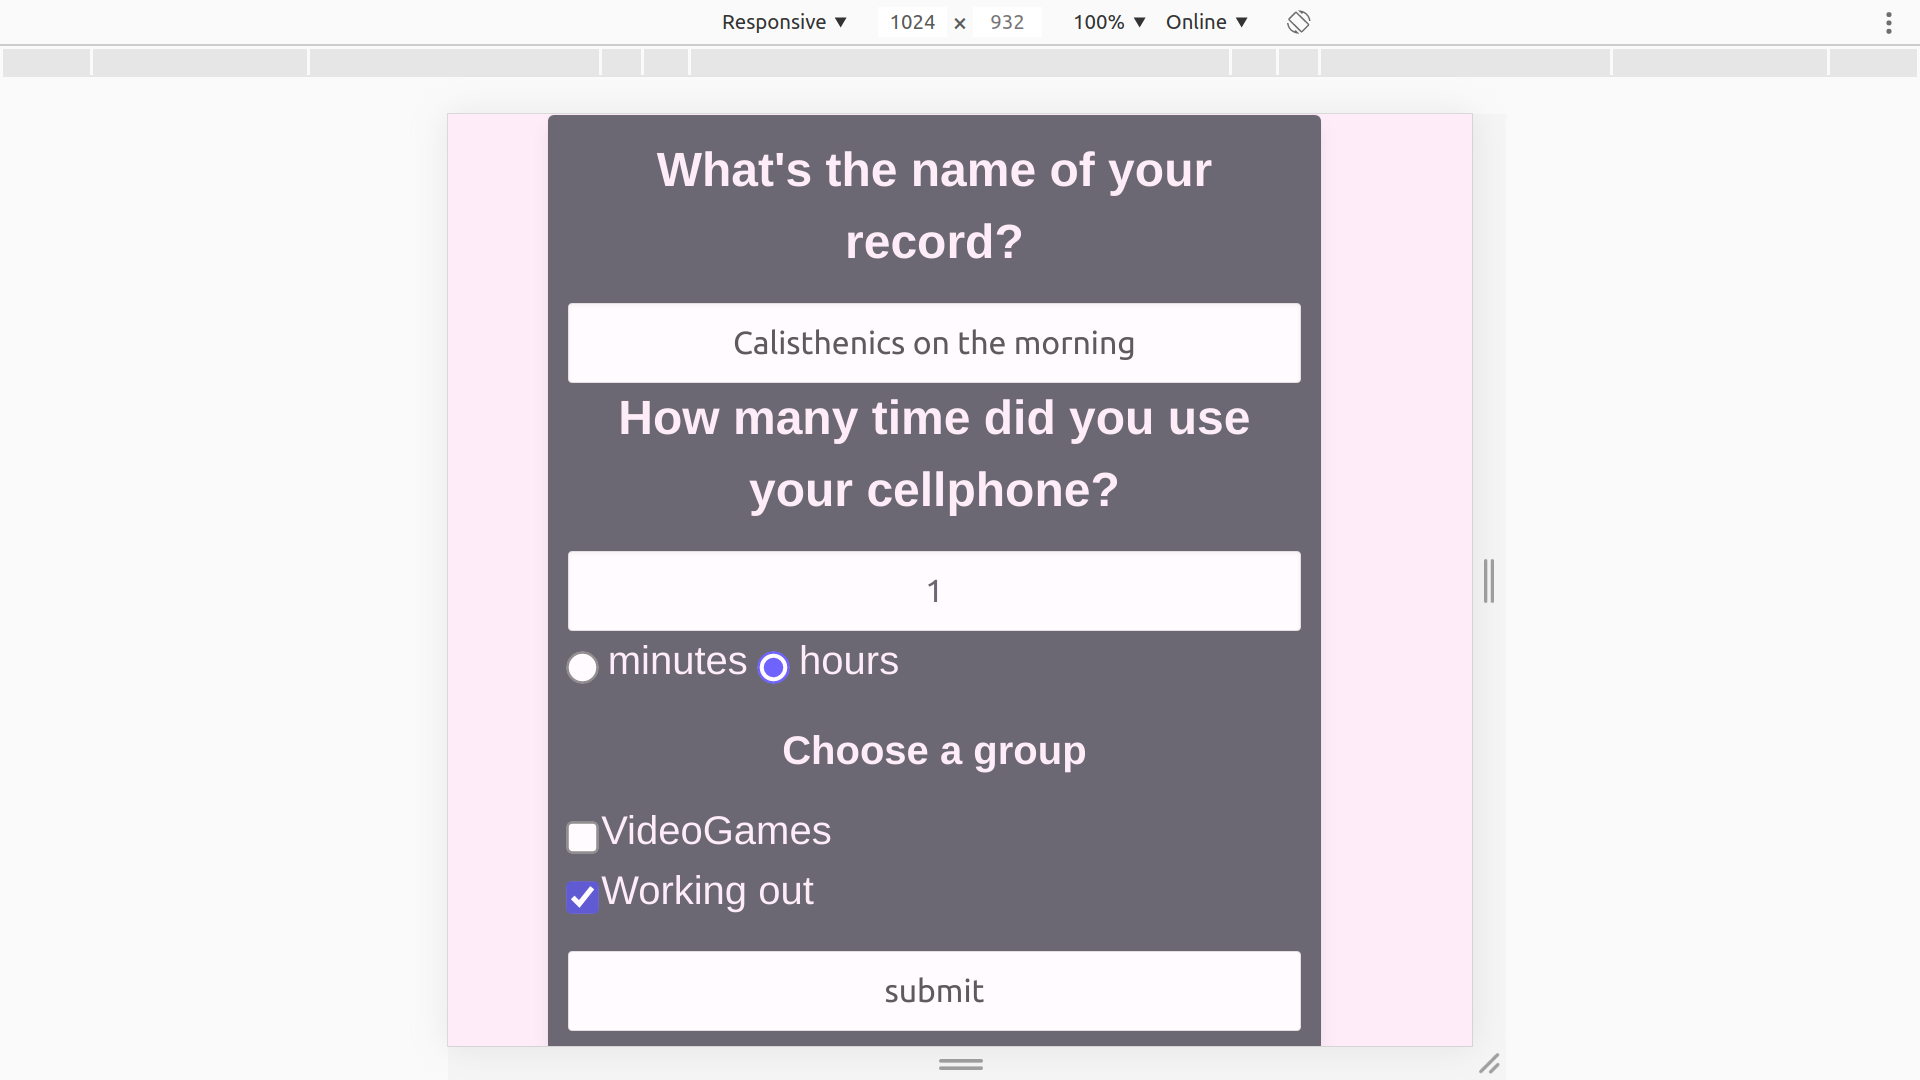
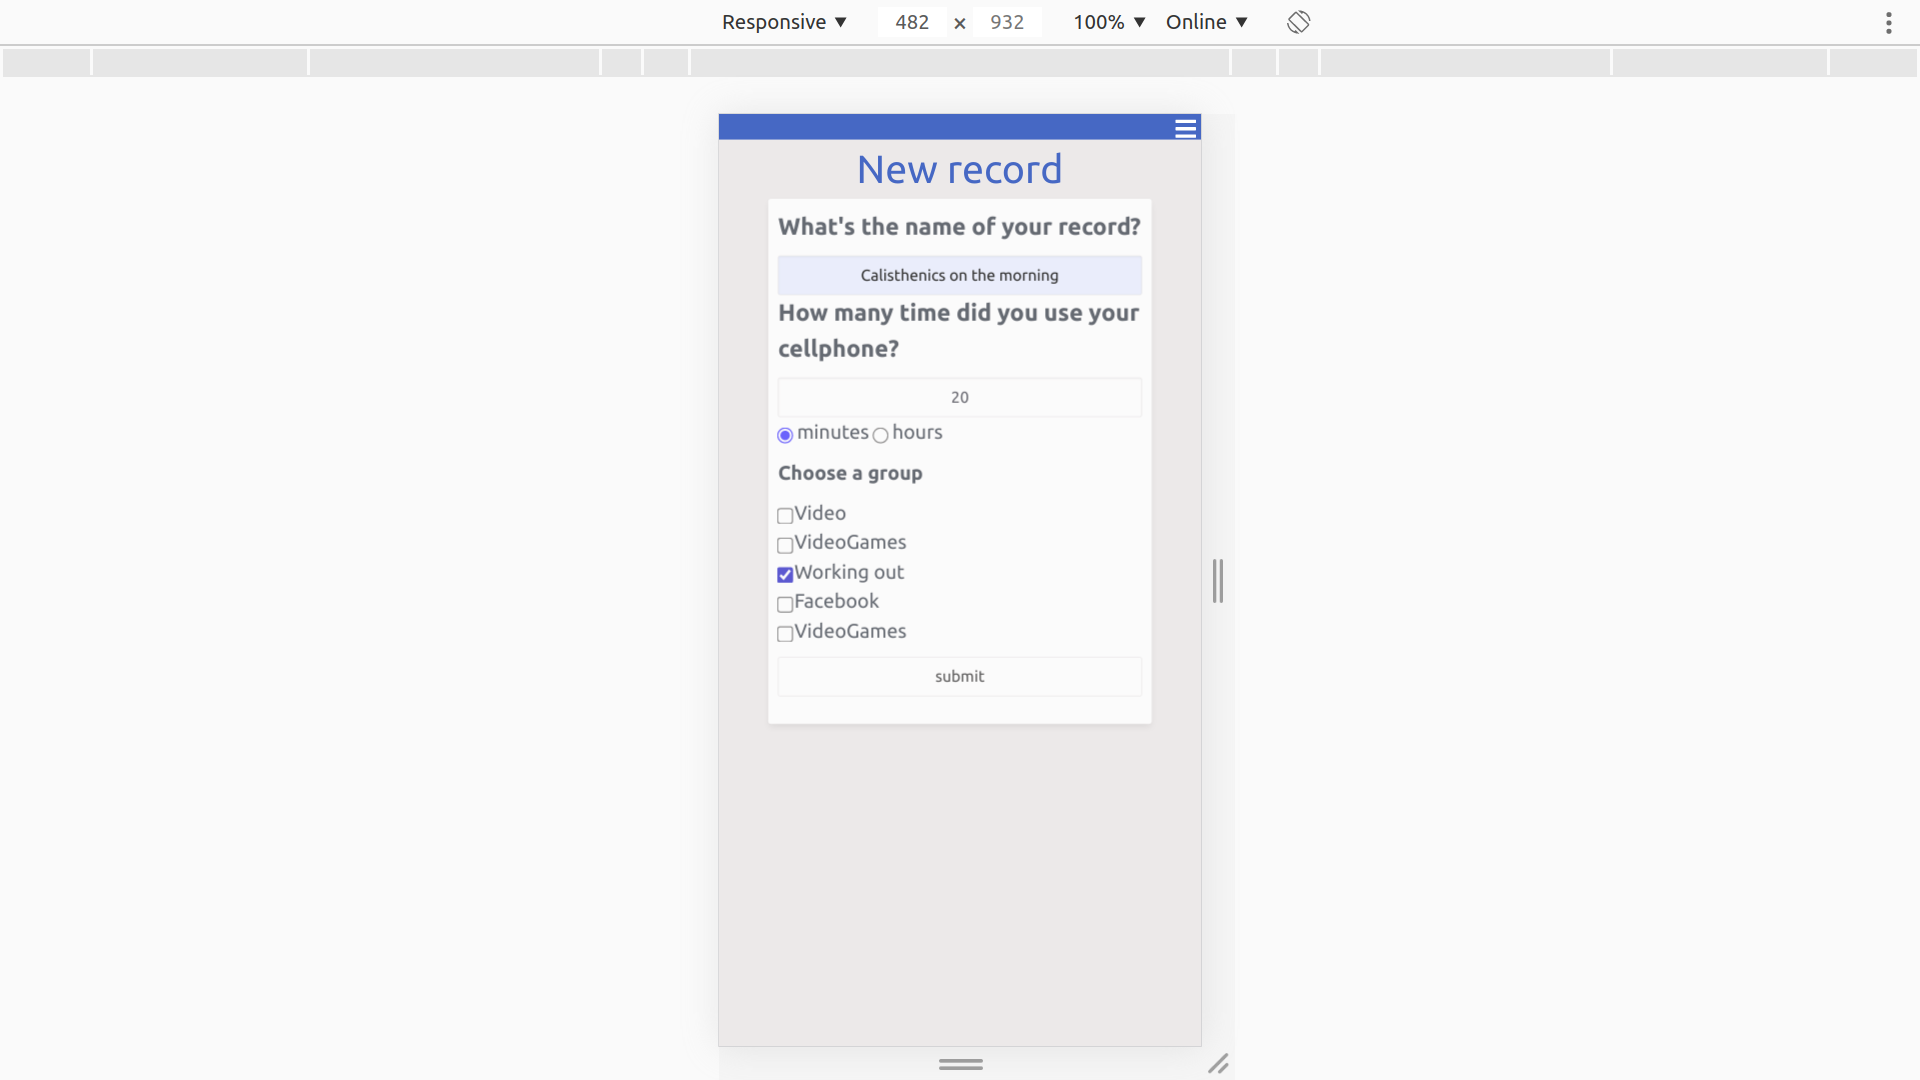
Re designed project to look as requested. Check for all tests to pass Order alphabethically the group index page

diff --git a/app/assets/stylesheets/application.scss b/app/assets/stylesheets/application.scss
@@ -24,7 +24,7 @@ $russian-green: #73956f;
 $lavender-blush: #fceff9;
 
 @mixin charcoal-form {
-  background-color: $charcoal;
+  background-color: white;
   opacity: 0.8;
 }
 
@@ -58,7 +58,7 @@ h2 {
 
 body,
 html {
-  background-color: #fceff9;
+  background-color: rgb(236, 233, 233);
   width: 100%;
   height: 100%;
   overflow-x: hidden;
@@ -80,6 +80,18 @@ html {
 
 .drawer-link {
   color: $font;
+}
+
+.container-title {
+  display: flex;
+  justify-content: center;
+  align-items: center;
+  width: 100%;
+
+  h3 {
+    color: $ocean;
+    font-size: 80px;
+  }
 }
 
 .icon-close {
@@ -130,7 +142,6 @@ html {
   align-items: center;
   color: #454851;
   background-color: rgb(236, 233, 233);
-
 }
 
 .item-total-record {
@@ -170,7 +181,6 @@ html {
   justify-content: center;
   max-height: 100%;
   height: 100%;
-  border-top: $russian-green 1px solid;
   padding-top: 30px;
 
   img {
@@ -196,9 +206,64 @@ html {
 
 .group-info-container {
   display: grid;
+  grid-template-columns: 1fr 2fr;
+  grid-template-rows: 2fr 1fr 15%;
+  grid-template-areas:
+    "group-image title"
+    "number-created-at number-created-at"
+    "item-author item-author";
+  border-bottom: $font 3px solid;
+}
+
+.groups-record-container {
+  display: grid;
   grid-template-columns: 49% 49%;
-  grid-template-areas: "item-record-name item-created-at";
-  column-gap: 20px;
+  grid-template-rows: 49% 49%;
+  grid-template-areas:
+    "g-record-name g-record-name"
+    "g-record-number-created-at g-record-number-created-at";
+}
+.box-color{
+  background-color: rgb(236, 233, 233);
+}
+.g-record-name {
+  grid-area: g-record-name;
+}
+
+.g-record-number-created-at {
+  grid-area: g-record-number-created-at;
+  display: flex;
+  flex-direction: column;
+  height: 100%;
+}
+
+.title {
+  display: flex;
+  height: 100%;
+  flex-direction: column;
+  justify-content: center;
+  align-items: center;
+  grid-area: title;
+}
+
+.group-image {
+  grid-area: group-image;
+    img {
+      width: 100%;
+      height: 100%;
+  }
+}
+
+.number-created-at {
+  display: flex;
+  width: 100%;
+  height: 100%;
+  flex-direction: column;
+  grid-area: number-created-at;
+}
+
+.item-author {
+  grid-area: item-author;
 }
 
 .item-record-name {
@@ -254,7 +319,7 @@ html {
   justify-content: center;
   align-items: center;
   background-color: $ocean;
-  width: 400px;
+  width: 100%;
   height: 50px;
   border-radius: 15px;
   box-shadow: 2px 2px;
@@ -262,7 +327,6 @@ html {
 }
 
 .item-form-new-record {
-  border-top: 11px dotted #73956f;
   width: 100%;
   text-align: center;
   margin-top: 35px;
@@ -296,7 +360,6 @@ html {
 .image {
   margin: 60px;
   grid-area: image;
-  border: $charcoal dashed 10px;
   display: flex;
   justify-content: center;
   align-items: center;
@@ -308,7 +371,6 @@ html {
   min-width: 200px;
   min-height: 200px;
   height: 70%;
-  border: #7bae7f 10px dashed;
 }
 
 .record-name {
@@ -321,21 +383,21 @@ html {
 .record-name-button {
   width: 80%;
   height: 70%;
-  background-color: #7bae7f;
   box-shadow: 10px 10px;
   border-radius: 10px;
   display: flex;
   justify-content: center;
   align-items: center;
-  font-size: 25px;
+  font-size: 50px;
+  background-color: $ocean;
 }
 
 .buttons {
   grid-area: buttons;
   display: grid;
-  grid-template-columns: 33% 33% 33%;
-  grid-template-areas: "edit destroy back";
-  column-gap: 5px;
+  grid-template-columns: 1fr 1fr;
+  grid-template-areas: "edit back";
+  column-gap: 50px;
   font-size: 70px;
 
   a {
@@ -349,7 +411,7 @@ html {
   display: flex;
   justify-content: center;
   align-items: center;
-  background-color: #454851;
+  background-color: $grass;
 }
 
 .destroy {
@@ -367,7 +429,7 @@ html {
   display: flex;
   justify-content: center;
   align-items: center;
-  background-color: #454851;
+  background-color: $grass;
 }
 
 // Form
@@ -380,11 +442,26 @@ html {
   @include charcoal-form();
 
   .has-text-lavanda {
-    color: $lavender-blush;
+    color: $font;
   }
 
   .has-text-charcoal {
     color: $charcoal;
+  }
+
+  #has-text-ocean {
+    h3 {
+      font-size: 50px;
+      color: $ocean;
+    }
+  }
+
+  .has-background-ocean {
+    background-color: $ocean;
+  }
+
+  .has-background-grass {
+    background-color: $grass;
   }
 
   input[type=radio],

diff --git a/spec/features/record_spec.rb b/spec/features/record_spec.rb
@@ -14,9 +14,10 @@ RSpec.describe 'Creating records on Index page', type: :feature do
     visit index_no_group_path
   end
   scenario 'The user is on the  index_no_group page' do
-    expect(page).to have_content('New Record without group')
+    expect(page).to have_content('Records')
   end
   scenario 'Creates new record successfully' do
+    click_on '+'
     fill_in 'Name your record, please', with: 'My record without group.'
     fill_in 'time', with: '10'
     # find(:css, "#record_group_id_[value='3']").set(true)
@@ -25,6 +26,7 @@ RSpec.describe 'Creating records on Index page', type: :feature do
   end
 
   scenario 'Creates new record with group successfully and goes to the record show page' do
+    click_on '+'
     fill_in 'Name your record, please', with: 'My record.'
     fill_in 'time', with: '10'
     check 'record[group_id][]'
@@ -34,7 +36,8 @@ RSpec.describe 'Creating records on Index page', type: :feature do
 
   scenario 'Creates new record with group successfully,
   then go back to the index page to find
-   the new created content' do
+the new created content' do
+   click_on '+'
     fill_in 'Name your record, please', with: 'My record.'
     fill_in 'time', with: '10'
     check 'record[group_id][]'
@@ -57,9 +60,10 @@ RSpec.describe 'Creating records on Index page', type: :feature do
     click_on 'Log in'
   end
   scenario 'The user is on the records page' do
-    expect(page).to have_content('New Record')
+    expect(page).to have_content('Records')
   end
   scenario 'Creates new record without group successfully' do
+    click_on '+'
     fill_in 'Name your record, please', with: 'My record.'
     fill_in 'time', with: '10'
     # find(:css, "#record_group_id_[value='3']").set(true)

diff --git a/spec/features/group_spec.rb b/spec/features/group_spec.rb
@@ -17,33 +17,34 @@ RSpec.describe 'Creating Groups on group page', type: :feature do
     expect(page).to have_content("You don't have any group yet")
   end
   scenario 'Creates new group successfully' do
-    click_on 'Create a new one'
+    click_on '+'
     fill_in 'Name your group, please', with: 'Unnamed'
     attach_file(File.absolute_path('app/assets/images/unnamed.png'))
     click_on 'Submit'
     expect(page).to have_content('Group was successfully created.')
   end
   scenario 'View the new created group' do
-    click_on 'Create a new one'
+    click_on '+'
     fill_in 'Name your group, please', with: 'Unnamed'
     attach_file(File.absolute_path('app/assets/images/unnamed.png'))
     click_on 'Submit'
     click_on 'Back'
-    expect(page).to have_content('View')
+    expect(page).to have_content('Unnamed')
   end
 
   scenario 'See the record name associated to the new created group' do
-    click_on 'Create a new one'
+    click_on '+'
     fill_in 'Name your group, please', with: 'Unnamed'
     attach_file(File.absolute_path('app/assets/images/unnamed.png'))
     click_on 'Submit'
     visit records_path
+    click_on '+'
     fill_in 'Name your record, please', with: 'My record.'
     fill_in 'time', with: '10'
     check 'record[group_id][]'
     click_on 'submit'
     visit groups_path
-    click_on 'View'
-    expect(page).to have_content('Record name')
+    click_link('Unnamed')
+    expect(page).to have_content('My record')
   end
 end

diff --git a/app/controllers/groups_controller.rb b/app/controllers/groups_controller.rb
@@ -5,7 +5,7 @@ class GroupsController < ApplicationController
   # GET /groups
   # GET /groups.json
   def index
-    @groups = current_user.groups.most_recent.all
+    @groups = current_user.groups.alph.all
     @group = current_user.groups.build
   end
 

diff --git a/app/models/group.rb b/app/models/group.rb
@@ -7,4 +7,5 @@ class Group < ApplicationRecord
   validates :icon, presence: true
   has_many :records, through: :record_groups, dependent: :destroy
   scope :most_recent, -> { order(created_at: :desc) }
+  scope :alph, -> { order(name: :asc) }
 end
